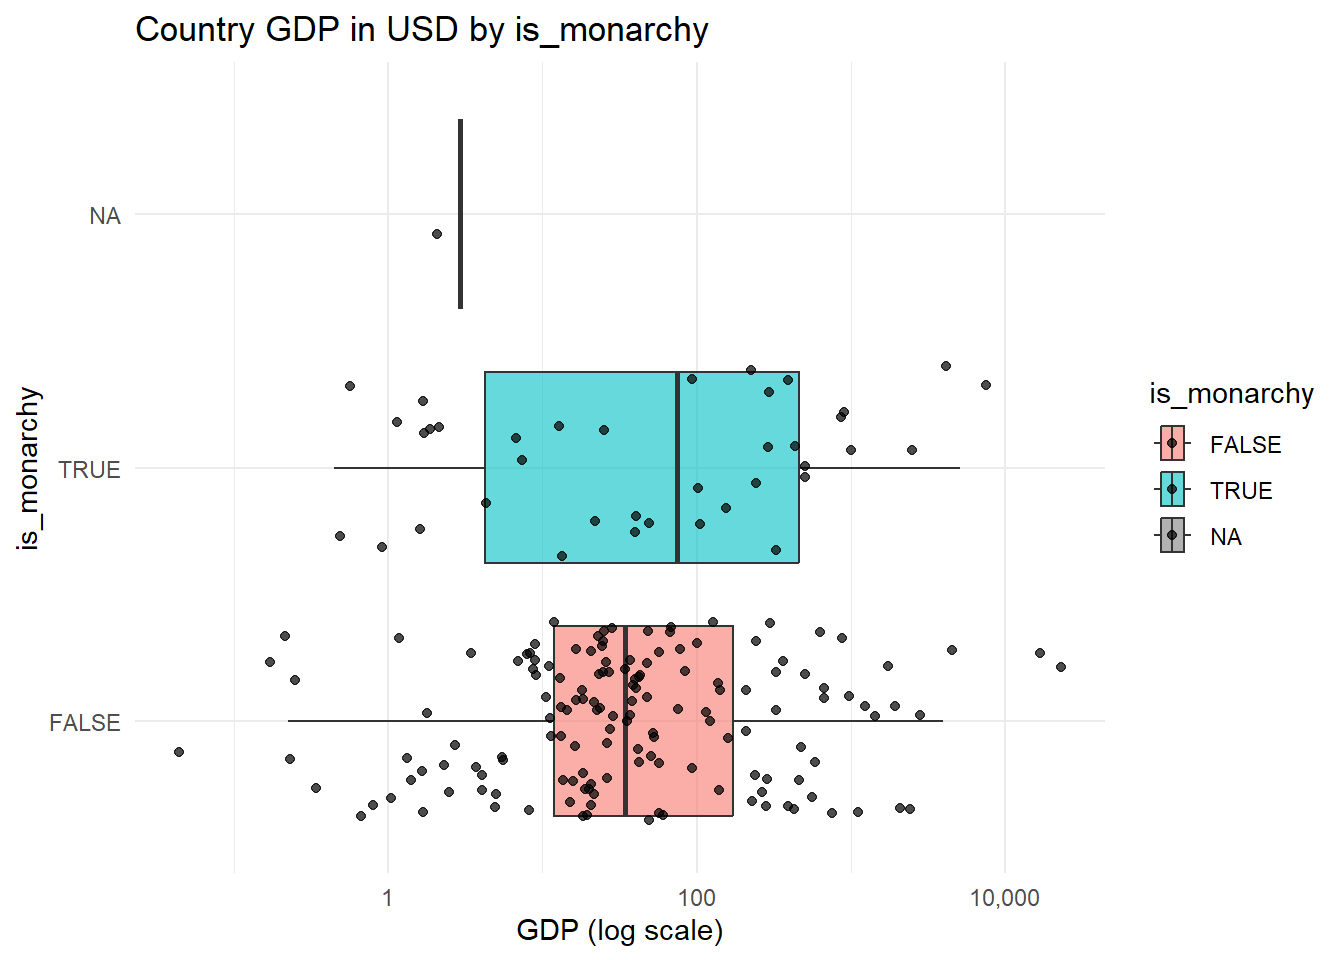
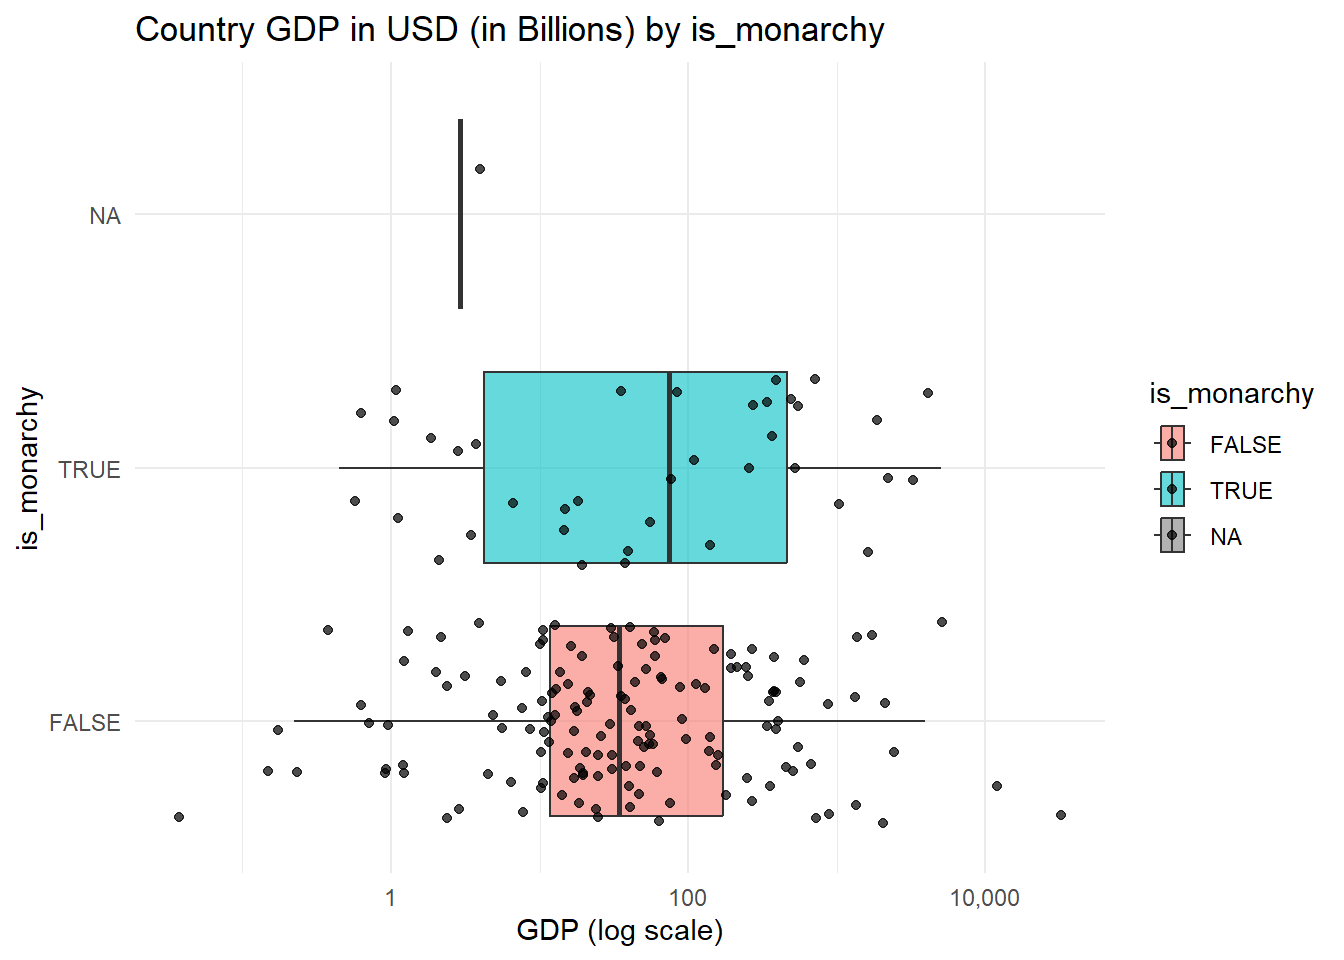
Checkpoint 3 Last

diff --git a/Project1_Checkpoint3.html b/Project1_Checkpoint3.html
@@ -465,8 +465,8 @@ pre > code.sourceCode > span > a:first-child::before { text-decoration: underlin
 </div>
 </div>
 </section>
-<section id="box-plots-for-the-relationship-between-categorical-variables-and-gdp" class="level1">
-<h1>Box-plots for the Relationship Between Categorical Variables and GDP</h1>
+<section id="box-plots-for-the-relationship-between-categorical-variables-and-gdp-in-usd-in-billions" class="level1">
+<h1>Box-plots for the Relationship Between Categorical Variables and GDP in USD (in Billions)</h1>
 <div class="cell">
 <div class="code-copy-outer-scaffold"><div class="sourceCode cell-code" id="cb23"><pre class="sourceCode r code-with-copy"><code class="sourceCode r"><span id="cb23-1"><a href="#cb23-1" aria-hidden="true" tabindex="-1"></a>plot_gdp_by_category <span class="ot">&lt;-</span> <span class="cf">function</span>(cat_var) {</span>
 <span id="cb23-2"><a href="#cb23-2" aria-hidden="true" tabindex="-1"></a>  <span class="fu">ggplot</span>(country_meta_data, <span class="fu">aes</span>(<span class="at">y =</span> {{ cat_var }}, <span class="at">x =</span> GDP, <span class="at">fill =</span> {{ cat_var }})) <span class="sc">+</span></span>
@@ -474,7 +474,7 @@ pre > code.sourceCode > span > a:first-child::before { text-decoration: underlin
 <span id="cb23-4"><a href="#cb23-4" aria-hidden="true" tabindex="-1"></a>    <span class="fu">geom_jitter</span>(<span class="at">width =</span> <span class="fl">0.2</span>, <span class="at">size =</span> <span class="fl">1.5</span>, <span class="at">alpha =</span> <span class="fl">0.7</span>) <span class="sc">+</span></span>
 <span id="cb23-5"><a href="#cb23-5" aria-hidden="true" tabindex="-1"></a>    <span class="fu">scale_x_log10</span>(<span class="at">labels =</span> scales<span class="sc">::</span>comma) <span class="sc">+</span></span>
 <span id="cb23-6"><a href="#cb23-6" aria-hidden="true" tabindex="-1"></a>    <span class="fu">labs</span>(</span>
-<span id="cb23-7"><a href="#cb23-7" aria-hidden="true" tabindex="-1"></a>      <span class="at">title =</span> <span class="fu">paste</span>(<span class="st">"Country GDP in USD by"</span>, <span class="fu">deparse</span>(<span class="fu">substitute</span>(cat_var))),</span>
+<span id="cb23-7"><a href="#cb23-7" aria-hidden="true" tabindex="-1"></a>      <span class="at">title =</span> <span class="fu">paste</span>(<span class="st">"Country GDP in USD (in Billions) by"</span>, <span class="fu">deparse</span>(<span class="fu">substitute</span>(cat_var))),</span>
 <span id="cb23-8"><a href="#cb23-8" aria-hidden="true" tabindex="-1"></a>      <span class="at">y     =</span> <span class="fu">deparse</span>(<span class="fu">substitute</span>(cat_var)),</span>
 <span id="cb23-9"><a href="#cb23-9" aria-hidden="true" tabindex="-1"></a>      <span class="at">x     =</span> <span class="st">"GDP (log scale)"</span></span>
 <span id="cb23-10"><a href="#cb23-10" aria-hidden="true" tabindex="-1"></a>    ) <span class="sc">+</span></span>
@@ -515,8 +515,8 @@ pre > code.sourceCode > span > a:first-child::before { text-decoration: underlin
 </div>
 </div>
 </section>
-<section id="summary-statistics-for-the-relationship-between-categorical-variables-and-gdp" class="level1">
-<h1>Summary Statistics for the Relationship Between Categorical Variables and GDP</h1>
+<section id="summary-statistics-for-the-relationship-between-categorical-variables-and-gdp-in-usd-in-billions" class="level1">
+<h1>Summary Statistics for the Relationship Between Categorical Variables and GDP in USD (in Billions)</h1>
 <div class="cell">
 <div class="code-copy-outer-scaffold"><div class="sourceCode cell-code" id="cb27"><pre class="sourceCode r code-with-copy"><code class="sourceCode r"><span id="cb27-1"><a href="#cb27-1" aria-hidden="true" tabindex="-1"></a>summarize_gdp_by_category <span class="ot">&lt;-</span> <span class="cf">function</span>(cat_var) {</span>
 <span id="cb27-2"><a href="#cb27-2" aria-hidden="true" tabindex="-1"></a>  country_meta_data <span class="sc">|&gt;</span></span>
